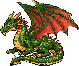
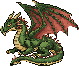
Green dragon: new sprite, 1.2x scale; dragonlings stand low in front so the dragon's head stays visible
Claude-Session: https://claude.ai/code/session_01SUwomDD9kMFXsyXz3DtJr2

diff --git a/battle/index.html b/battle/index.html
@@ -243,7 +243,7 @@ var BFORM={1:[[130,20]],2:[[138,20],[115,14]],3:[[139,20],[116,33],[112,6]],4:[[
 function mslots(ms){var n=Math.max(1,Math.min(5,ms.length)),bi=-1;ms.forEach(function(m,i){if(m.boss&&bi<0)bi=i});
   if(bi<0)return ms.map(function(m,i){return MFORM[n][Math.min(i,n-1)]});var F=ms[bi].k==='dragon'?DFORM:BFORM,q=1;return ms.map(function(m,i){return i===bi?F[n][0]:F[n][Math.min(q++,n-1)]})}
 /* 龍這種大隻的王：王往後站一點，小怪站在牠前面的上下兩側，盡量不擋住龍頭 */
-var DFORM={1:[[130,18]],2:[[132,16],[104,34]],3:[[132,14],[104,34],[100,4]],4:[[132,14],[106,34],[96,20],[102,2]],5:[[132,14],[108,34],[96,26],[102,6],[92,0]]};
+var DFORM={1:[[134,18]],2:[[140,16],[104,34]],3:[[140,14],[98,33],[124,34]],4:[[140,14],[94,33],[118,34],[106,24]],5:[[140,14],[92,33],[116,34],[104,24],[128,28]]};
 function img(src){var i=new Image();i.src=src;i.className='sp';i.draggable=false;return i}
 var party=[],mons=[],SLIME=null,SKI={},SKC={},MEMB=[];
 /* 有待機特效的怪物：上半身每個週期往下壓 1 格（呼吸／喘氣），特效另外畫在特效層 */
@@ -270,7 +270,7 @@ function build(){
   MEMB.slice(0,4).forEach(function(p,i){var sh=el('div','sh'),c=document.createElement('canvas');c.width=c.height=48;c.className='sp';
     var hb=el('div','hpb');hb.appendChild(el('i'));party.push({i:i,f:c,sh:sh,hb:hb,ph:Math.random()*2000,look:look(p),far:['杖','書','弓'].indexOf(p.weapon)>=0});frame.appendChild(sh);frame.appendChild(c);frame.appendChild(hb);els.push(sh,c,hb)});
   if(!B)return;var sl=mslots(B.mons);
-  B.mons.forEach(function(m,i){if(m.slot)sl[i]=m.slot;var o={k:m.k,at:m.at,sc:m.k==='dragon'?1:m.boss?(m.k==='sk'?1.5:1.2):1,f:img(''),sh:el('div','sh'),hb:el('div','hpb m'),x:sl[i][0],dy:sl[i][1],ph:Math.random()*900};var hw=msz(m.k)[0]*o.sc/2;if(m.k!=='dragon'&&o.x+hw>UW-1)o.x=UW-1-hw;/* 太大隻的往左收，免得超出畫面；龍故意站後面，尾巴被切掉沒關係 */o.hb.appendChild(el('i'));frame.appendChild(o.sh);frame.appendChild(o.f);frame.appendChild(o.hb);els.push(o.sh,o.f,o.hb);mons.push(o)});
+  B.mons.forEach(function(m,i){if(m.slot)sl[i]=m.slot;var o={k:m.k,at:m.at,sc:m.k==='dragon'?1.2:m.boss?(m.k==='sk'?1.5:1.2):1,f:img(''),sh:el('div','sh'),hb:el('div','hpb m'),x:sl[i][0],dy:sl[i][1],ph:Math.random()*900};var hw=msz(m.k)[0]*o.sc/2;if(m.k!=='dragon'&&o.x+hw>UW-1)o.x=UW-1-hw;/* 太大隻的往左收，免得超出畫面；龍故意站後面，尾巴被切掉沒關係 */o.hb.appendChild(el('i'));frame.appendChild(o.sh);frame.appendChild(o.f);frame.appendChild(o.hb);els.push(o.sh,o.f,o.hb);mons.push(o)});
 }
 function ease(t){return t<0?0:t>1?1:t*t*(3-2*t)}
 /* 血條：顯示在腳下；hide 時藏起來 */
@@ -705,7 +705,7 @@ function start(me,mem){
   MEMB=[me].concat(mem);NavIcons.setPlayer(me);
   $('who').textContent='隊伍：'+MEMB.slice(0,4).map(function(p){return p.name}).join('、');
   $('loading').remove();renderTabs();showView('map');var o=curLoad();if(o)resume(o)}
-Promise.all([['weapon_info.csv','rune_info.csv','weapon_rune.csv','skill_info.csv','skill_effect.csv','status_info.csv','job_attribute.csv','job_level_up.csv','pet_info.csv','monster_info.csv','stage_info.csv'].map(getCSV),getJSON(AS+'clouds.json'),getJSON(AS+'fx_02.json'),getJSON(AS+'fx_06.json'),loadPx(BASE+'monsters/monster_01.png'),loadPx(BASE+'monsters/monster_02.png'),loadPx(BASE+'monsters/monster_02_blink.png'),loadPx(BASE+'monsters/monster_03.png?v=3'),loadPx(BASE+'monsters/monster_03_blink.png?v=2'),loadPx(BASE+'monsters/monster_boss_01.png'),loadPx(BASE+'monsters/monster_boss_01_blink.png'),loadPx(BASE+'monsters/monster_04.png'),loadPx(BASE+'monsters/monster_05.png'),loadPx(BASE+'monsters/monster_06.png?v=2'),loadPx(BASE+'monsters/monster_boss_02.png?v=2'),loadPx(BASE+'monsters/monster_07.png?v=1'),loadPx(BASE+'monsters/monster_08.png?v=1'),loadPx(BASE+'monsters/monster_08_blink.png?v=1'),loadPx(BASE+'monsters/monster_09.png?v=1')].concat([0,1,2,3,4,5,6,7].map(function(k){return loadPx(BASE+'vfx/slash_0'+k+'.png?v=4')})).concat([0,1,2,3,4,5,6,7].map(function(k){return loadPx(BASE+'vfx/arrow_0'+k+'.png?v=1')})).concat([0,1,2,3,4,5,6,7].map(function(k){return loadPx(BASE+'vfx/missile_0'+k+'.png?v=3')})).concat([0,1,2,3,4,5,6,7].map(function(k){return loadPx(BASE+'vfx/thrust_0'+k+'.png?v=1')})).concat([0,1,2,3,4,5,6,7].map(function(k){return loadPx(BASE+'vfx/smash_0'+k+'.png?v=1')})).concat([loadPx(BASE+'vfx/claw.png?v=1')]).map(function(x){return Array.isArray(x)?Promise.all(x):x})).then(function(r){
+Promise.all([['weapon_info.csv','rune_info.csv','weapon_rune.csv','skill_info.csv','skill_effect.csv','status_info.csv','job_attribute.csv','job_level_up.csv','pet_info.csv','monster_info.csv','stage_info.csv'].map(getCSV),getJSON(AS+'clouds.json'),getJSON(AS+'fx_02.json'),getJSON(AS+'fx_06.json'),loadPx(BASE+'monsters/monster_01.png'),loadPx(BASE+'monsters/monster_02.png'),loadPx(BASE+'monsters/monster_02_blink.png'),loadPx(BASE+'monsters/monster_03.png?v=3'),loadPx(BASE+'monsters/monster_03_blink.png?v=2'),loadPx(BASE+'monsters/monster_boss_01.png'),loadPx(BASE+'monsters/monster_boss_01_blink.png'),loadPx(BASE+'monsters/monster_04.png'),loadPx(BASE+'monsters/monster_05.png'),loadPx(BASE+'monsters/monster_06.png?v=2'),loadPx(BASE+'monsters/monster_boss_02.png?v=3'),loadPx(BASE+'monsters/monster_07.png?v=1'),loadPx(BASE+'monsters/monster_08.png?v=1'),loadPx(BASE+'monsters/monster_08_blink.png?v=1'),loadPx(BASE+'monsters/monster_09.png?v=1')].concat([0,1,2,3,4,5,6,7].map(function(k){return loadPx(BASE+'vfx/slash_0'+k+'.png?v=4')})).concat([0,1,2,3,4,5,6,7].map(function(k){return loadPx(BASE+'vfx/arrow_0'+k+'.png?v=1')})).concat([0,1,2,3,4,5,6,7].map(function(k){return loadPx(BASE+'vfx/missile_0'+k+'.png?v=3')})).concat([0,1,2,3,4,5,6,7].map(function(k){return loadPx(BASE+'vfx/thrust_0'+k+'.png?v=1')})).concat([0,1,2,3,4,5,6,7].map(function(k){return loadPx(BASE+'vfx/smash_0'+k+'.png?v=1')})).concat([loadPx(BASE+'vfx/claw.png?v=1')]).map(function(x){return Array.isArray(x)?Promise.all(x):x})).then(function(r){
   var csv=r[0];ENG=BattleEngine.prepare({weapon_info:csv[0],skill_info:csv[3],skill_effect:csv[4],status_info:csv[5],job_attribute:csv[6],job_level_up:csv[7],pet_info:csv[8],monster_info:csv[9],stage_info:csv[10]});CLD=(r[1]&&r[1].clouds)||[];(csv[3]||[]).forEach(function(q){if(q.skill_id&&q.kind==='combat')SKN[q.skill_id]={n:q.skill_name,ty:q.type,all:q.target==='enemy_all',el:q.part1_element||'',vfx:q.vfx||'',hits:parseInt(q.hits,10)||1,re:q.pick==='random_each'}});
   if(r[2]){BG.B.gl={b:glArr(r[2].background),f:glArr(r[2].foreground)}}if(r[3]){BG.F.gl={b:glArr(r[3].background),f:glArr(r[3].foreground)}}
   var m=r[4];if(m){var c=document.createElement('canvas');c.width=c.height=40;var x=c.getContext('2d');x.drawImage(m,0,0);var d=x.getImageData(0,0,40,40).data,x0=40,y0=40,x1=-1,y1=-1;for(var y=0;y<40;y++)for(var xx=0;xx<40;xx++)if(d[(y*40+xx)*4+3]>0){if(xx<x0)x0=xx;if(xx>x1)x1=xx;if(y<y0)y0=y;if(y>y1)y1=y}
